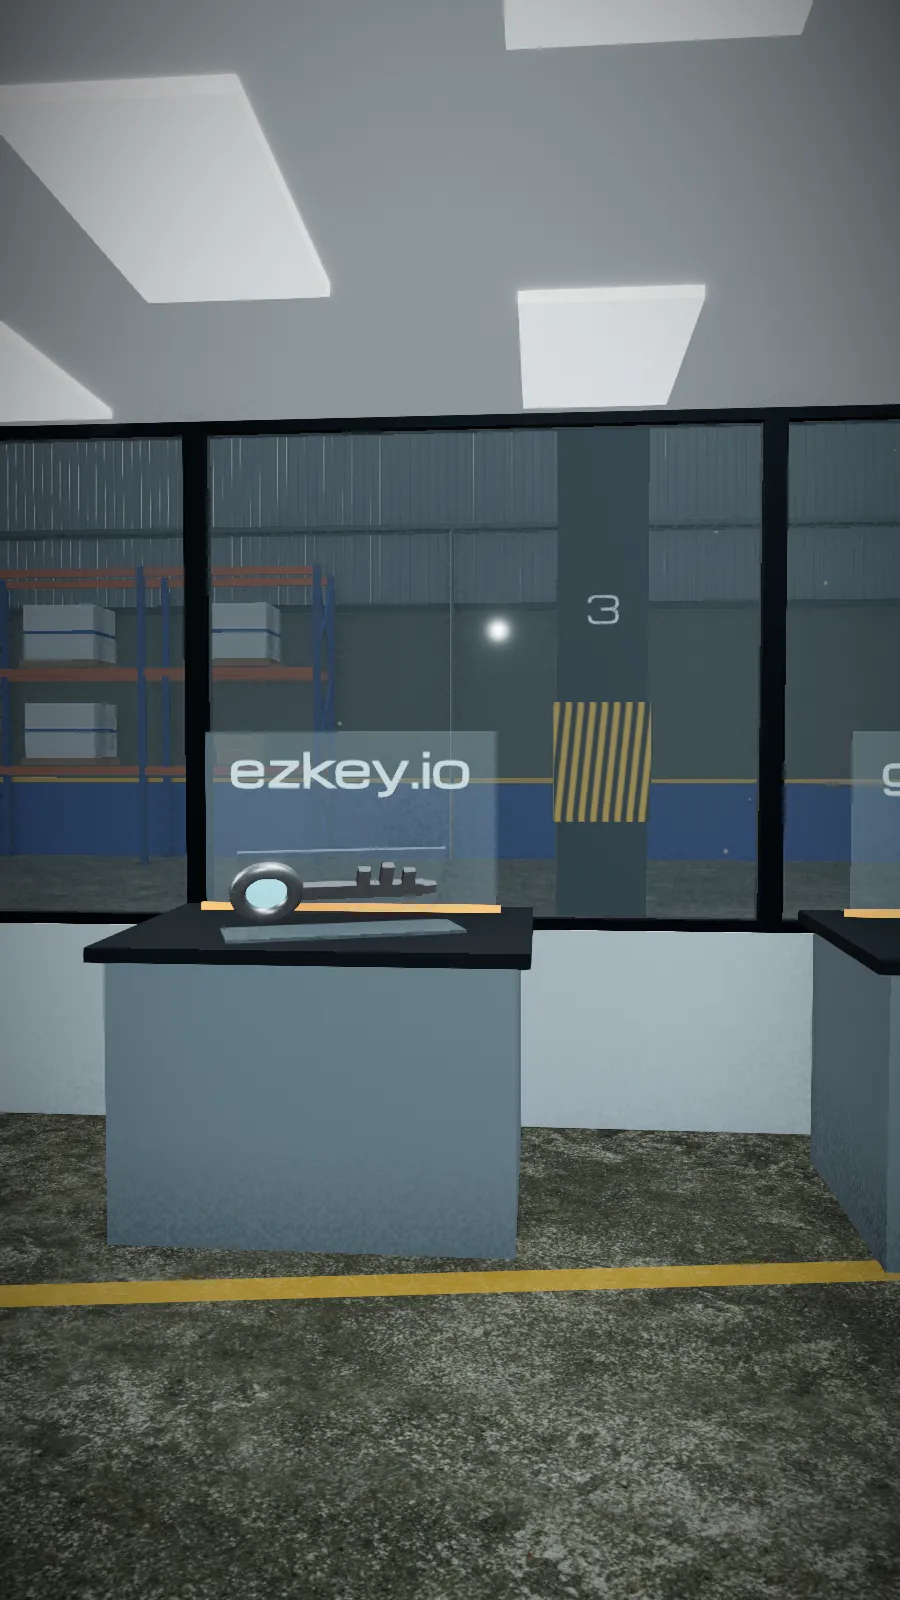
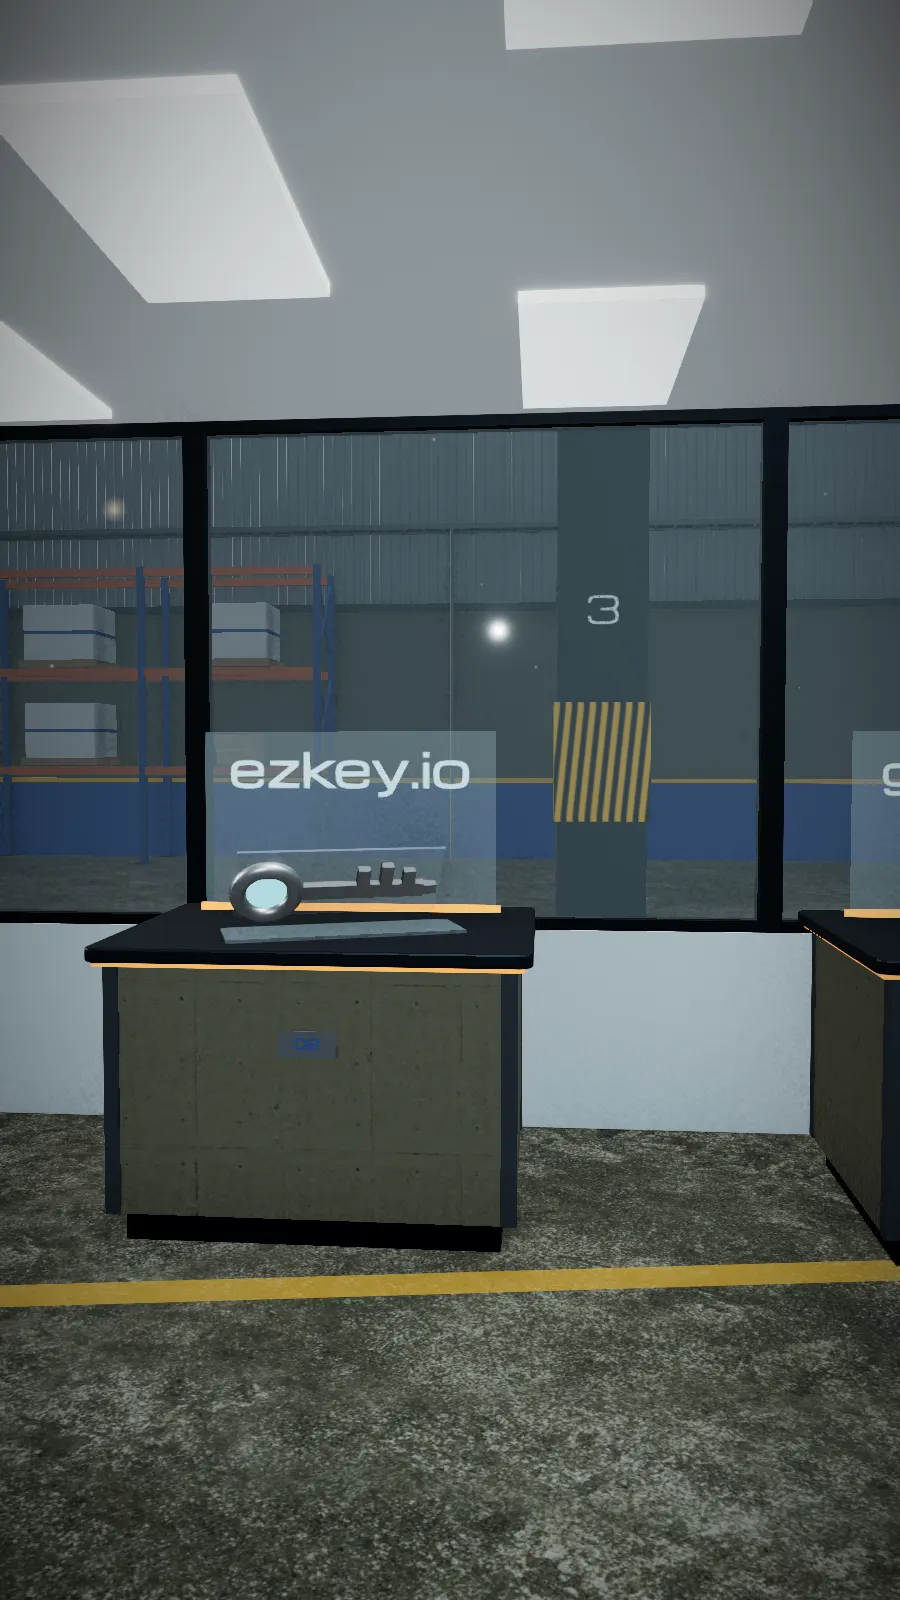
Build the exhibit plinths as pedestals
The three plinths were flat grey boxes with a lid, the last greybox thing in the dispatch office.
Each is now a cast concrete body on a recessed steel kick, with steel angles on the corners, a
bevelled steel cap carrying the wing's orange as a lit line under its lip, and a numbered plate on
the front. Every part belongs to its exhibit, so the whole pedestal still lifts under the pointer.

Changed region(s): [[0.0933, 0.5938, 0.5911, 0.8125], [0.9022, 0.5625, 1.0, 0.8125], [0.1244, 0.3125, 0.1556, 0.3438]]

diff --git a/src/scenes/walk/stages/fabrication/office.ts b/src/scenes/walk/stages/fabrication/office.ts
@@ -35,6 +35,51 @@ function labelPlate(label: string): THREE.Group {
 const shell = (color: number, roughness = 0.5, metalness = 0.3) => new THREE.MeshStandardMaterial({ color, roughness, metalness });
 
 /**
+ * A display plinth, 1.4 along the glass by 1.0 deep on a 1.045 m cap: a cast concrete body on a recessed steel kick,
+ * steel angles on its corners, a bevelled steel cap with the wing's orange lit in a line under its
+ * lip, and a numbered plate on the front. Origin at the floor under the centre of the body. Seven
+ * draw calls, all of them part of the exhibit the pointer picks, so the whole pedestal lifts with
+ * its product. The flat grey box it replaces was the one greybox thing left in the office.
+ */
+function plinth(store: StageContext['store'], n: number): THREE.Group {
+  const g = new THREE.Group();
+  // Local x runs along the glass and local z toward the camera: the office turns it a quarter.
+  const W = 1.4, D = 1.0, TOP = 1.045, CAP = 0.05, KICK = 0.12;
+  const kick = new THREE.Mesh(new THREE.BoxGeometry(W - 0.1, KICK, D - 0.1), labSteel(0x1b2129)); kick.position.y = KICK / 2; g.add(kick);
+  const concrete = surface(store.texture('concrete_wall'), W, TOP - KICK, 1.2); concrete.color.setHex(0xd6dde1); concrete.roughness = 0.8;
+  const body = new THREE.Mesh(new THREE.BoxGeometry(W, TOP - CAP - KICK, D), concrete); body.position.y = KICK + (TOP - CAP - KICK) / 2; g.add(body);
+  // Corner angles: two flanges per corner, standing a millimetre proud of the concrete.
+  const angles: THREE.BufferGeometry[] = [];
+  for (const sx of [-1, 1]) for (const sz of [-1, 1]) {
+    angles.push(new THREE.BoxGeometry(0.05, TOP - CAP - KICK, 0.008).translate(sx * (W / 2 - 0.025), body.position.y, sz * (D / 2 + 0.001)));
+    angles.push(new THREE.BoxGeometry(0.008, TOP - CAP - KICK, 0.05).translate(sx * (W / 2 + 0.001), body.position.y, sz * (D / 2 - 0.025)));
+  }
+  g.add(merged(angles, labSteel(0x6d7a84)));
+  // The cap: a rounded rectangle with a bevelled edge, 5 cm proud of the body all round.
+  const cw = W + 0.1, cd = D + 0.1, r = 0.04;
+  const rr = new THREE.Shape();
+  rr.moveTo(-cw / 2 + r, -cd / 2); rr.lineTo(cw / 2 - r, -cd / 2); rr.quadraticCurveTo(cw / 2, -cd / 2, cw / 2, -cd / 2 + r);
+  rr.lineTo(cw / 2, cd / 2 - r); rr.quadraticCurveTo(cw / 2, cd / 2, cw / 2 - r, cd / 2); rr.lineTo(-cw / 2 + r, cd / 2);
+  rr.quadraticCurveTo(-cw / 2, cd / 2, -cw / 2, cd / 2 - r); rr.lineTo(-cw / 2, -cd / 2 + r); rr.quadraticCurveTo(-cw / 2, -cd / 2, -cw / 2 + r, -cd / 2);
+  const capGeo = new THREE.ExtrudeGeometry(rr, { depth: CAP - 0.016, bevelEnabled: true, bevelThickness: 0.008, bevelSize: 0.008, bevelSegments: 2, curveSegments: 4 });
+  capGeo.translate(0, 0, 0.008); capGeo.rotateX(-Math.PI / 2); capGeo.translate(0, TOP - CAP, 0);
+  const cap = new THREE.Mesh(capGeo, new THREE.MeshStandardMaterial({ color: 0x2b3740, metalness: 0.6, roughness: 0.4 })); g.add(cap);
+  // The light line: a strip under the cap's lip on all four sides, in the wing's orange.
+  const lip: THREE.BufferGeometry[] = [];
+  const ly = TOP - CAP - 0.012;
+  lip.push(new THREE.BoxGeometry(W + 0.06, 0.012, 0.02).translate(0, ly, D / 2 + 0.02));
+  lip.push(new THREE.BoxGeometry(W + 0.06, 0.012, 0.02).translate(0, ly, -D / 2 - 0.02));
+  lip.push(new THREE.BoxGeometry(0.02, 0.012, D + 0.06).translate(W / 2 + 0.02, ly, 0));
+  lip.push(new THREE.BoxGeometry(0.02, 0.012, D + 0.06).translate(-W / 2 - 0.02, ly, 0));
+  g.add(merged(lip, new THREE.MeshStandardMaterial({ color: 0x1a1208, emissive: SODIUM, emissiveIntensity: 1.8 })));
+  // The plate: brushed steel on the front face at eye level for a standing visitor, numbered.
+  const plate = new THREE.Mesh(new THREE.BoxGeometry(0.2, 0.09, 0.006), labSteel(0xaab3ba)); plate.position.set(0, 0.72, D / 2 + 0.004); g.add(plate);
+  const num = new THREE.Mesh(new THREE.PlaneGeometry(0.16, 0.064), new THREE.MeshBasicMaterial({ map: stencilTexture(`0${n}`, { width: 256, height: 102, color: '#2455A4', font: '600 72px Michroma, system-ui, sans-serif', alpha: 1, flecks: false }), transparent: true, depthWrite: false }));
+  num.position.set(0, 0.72, D / 2 + 0.0075); g.add(num);
+  return g;
+}
+
+/**
  * The dispatch office: glass above a white sill on all four sides, a door in the front and back
  * face on the walked line, a lit ceiling grid, a working counter under blinds on the front glass,
  * the three products on lit plinths along the west glass, and a desk with its stool on its side.
@@ -137,22 +182,20 @@ export function buildOffice(ctx: StageContext, root: THREE.Group): { light: Poin
   ];
   const hotspots: Hotspot[] = [];
   const ex = -hx + 0.9;
-  for (const [key, label, dz, make] of exhibits) {
+  exhibits.forEach(([key, label, dz, make], i) => {
     // One group per exhibit, and it is what the pointer picks: plinth, product, plate and its light
     // strip all belong to the one product, so the whole thing lifts together under the cursor. The
-    // plinths are three meshes rather than one instanced batch for exactly that reason.
+    // plinths are built per exhibit rather than as one instanced batch for exactly that reason.
+    // The plinth's long side faces the camera, so its front plate turns with it.
     const exhibit = new THREE.Group(); exhibit.name = key;
-    const plinth = new THREE.Mesh(new THREE.BoxGeometry(1.0, 1.0, 1.4), shell(0x9aacb4, 0.5, 0.1));
-    plinth.position.set(ex, 0.5, dz); exhibit.add(plinth);
-    const cap = new THREE.Mesh(new THREE.BoxGeometry(1.1, 0.05, 1.5), labSteel(0x46525a));
-    cap.position.set(ex, 1.02, dz); exhibit.add(cap);
+    exhibit.add(place(plinth(store, i + 1), ex, 0, dz, Math.PI / 2));
     exhibit.add(place(labelPlate(label), ex - 0.34, 1.045, dz, Math.PI / 2));
     exhibit.add(place(make(), ex + 0.14, 1.045, dz, Math.PI / 2 + 0.35));
     g.add(exhibit);
     hotspots.push({ id: key, kind: 'project', label, object: exhibit, stop: 'fabrication' });
     // The plate hangs to the right of its anchor, so the anchor sits past the product's right edge.
     anchors.set(key, new THREE.Vector3(OX + ex + 0.6, 1.7, OZ + dz - 0.9));
-  }
+  });
 
   // The desk on the east side, its stool on its side.
   const desk = store.model('desk'); desk.position.set(hx - 1.3, 0, -1.2); desk.rotation.y = Math.PI / 2; g.add(desk);
